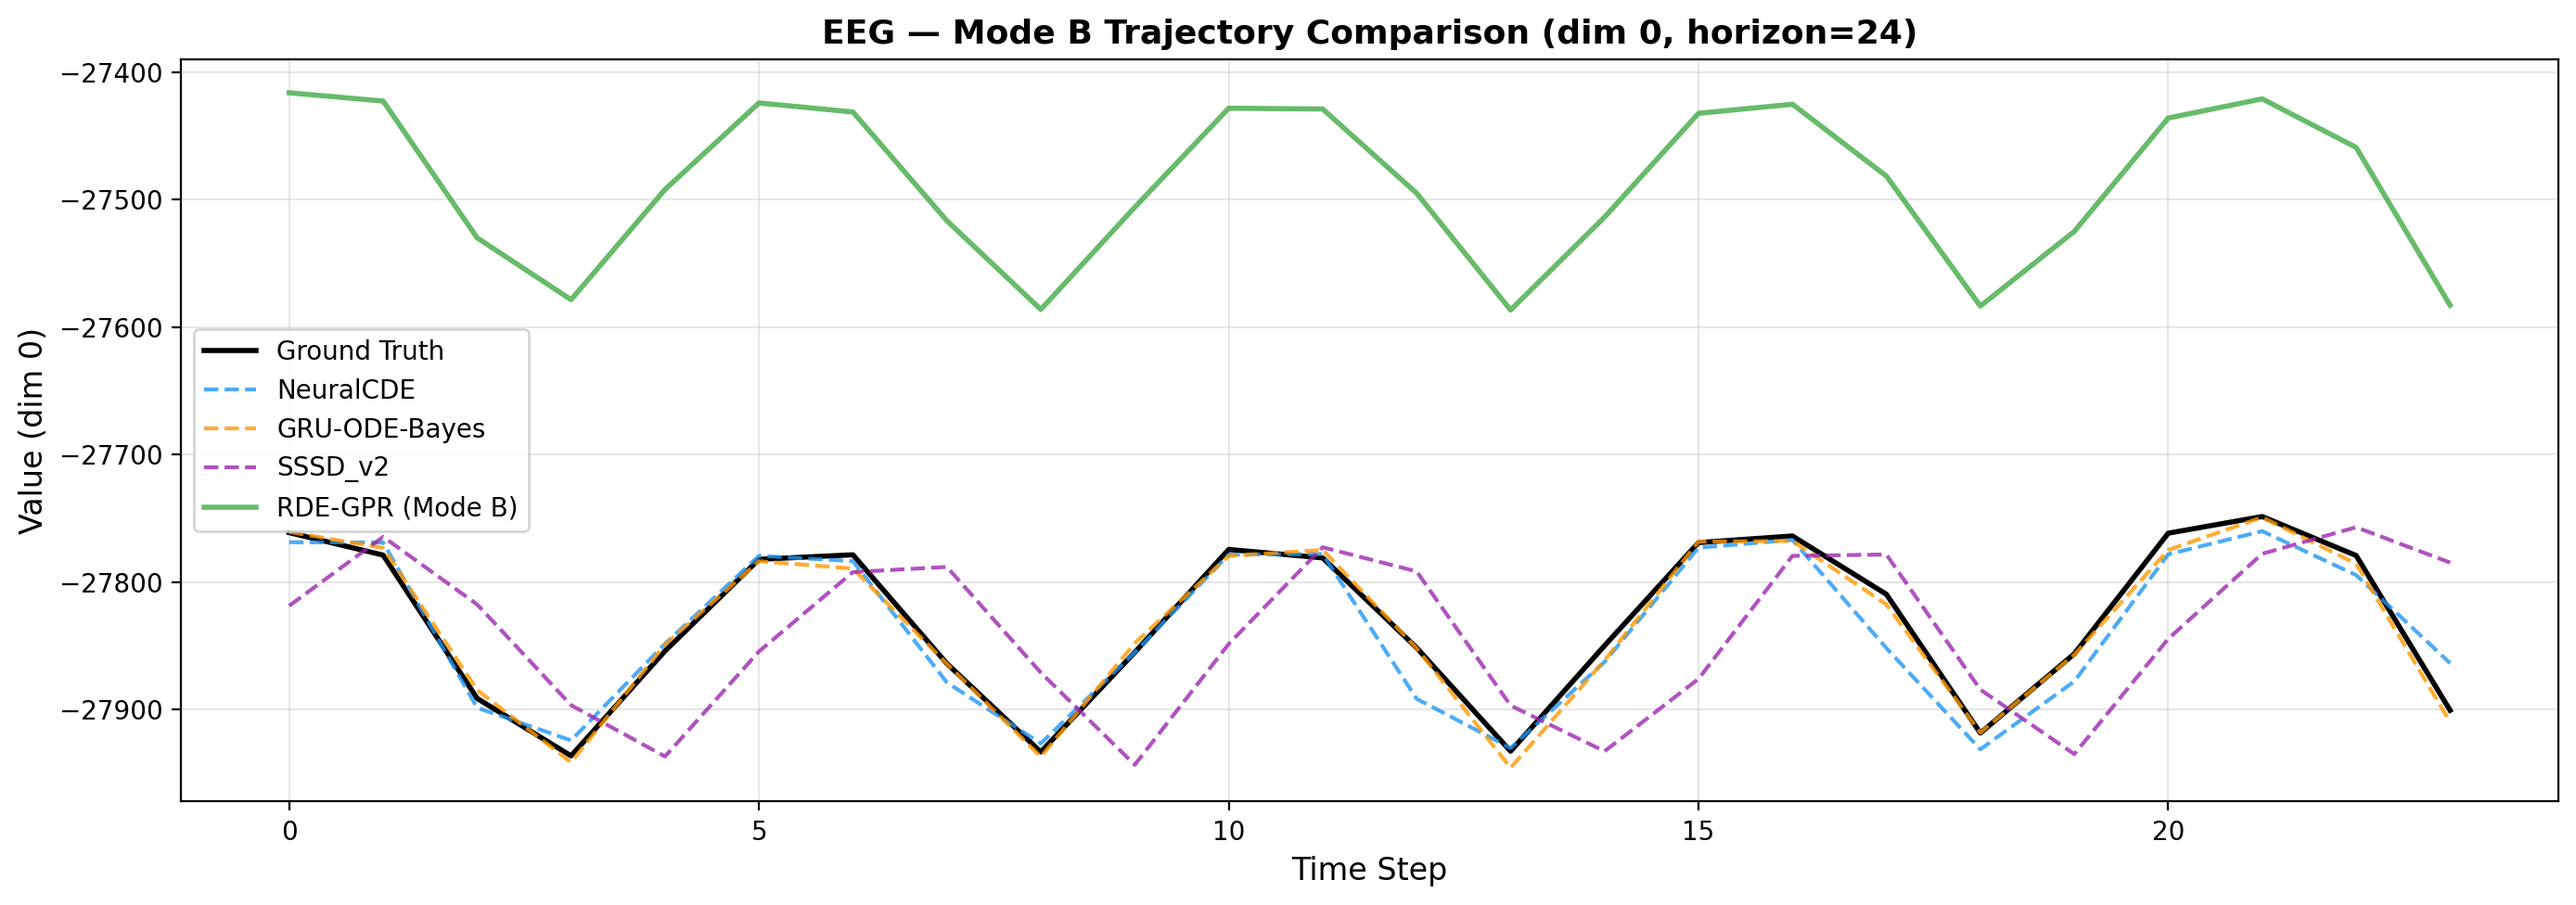
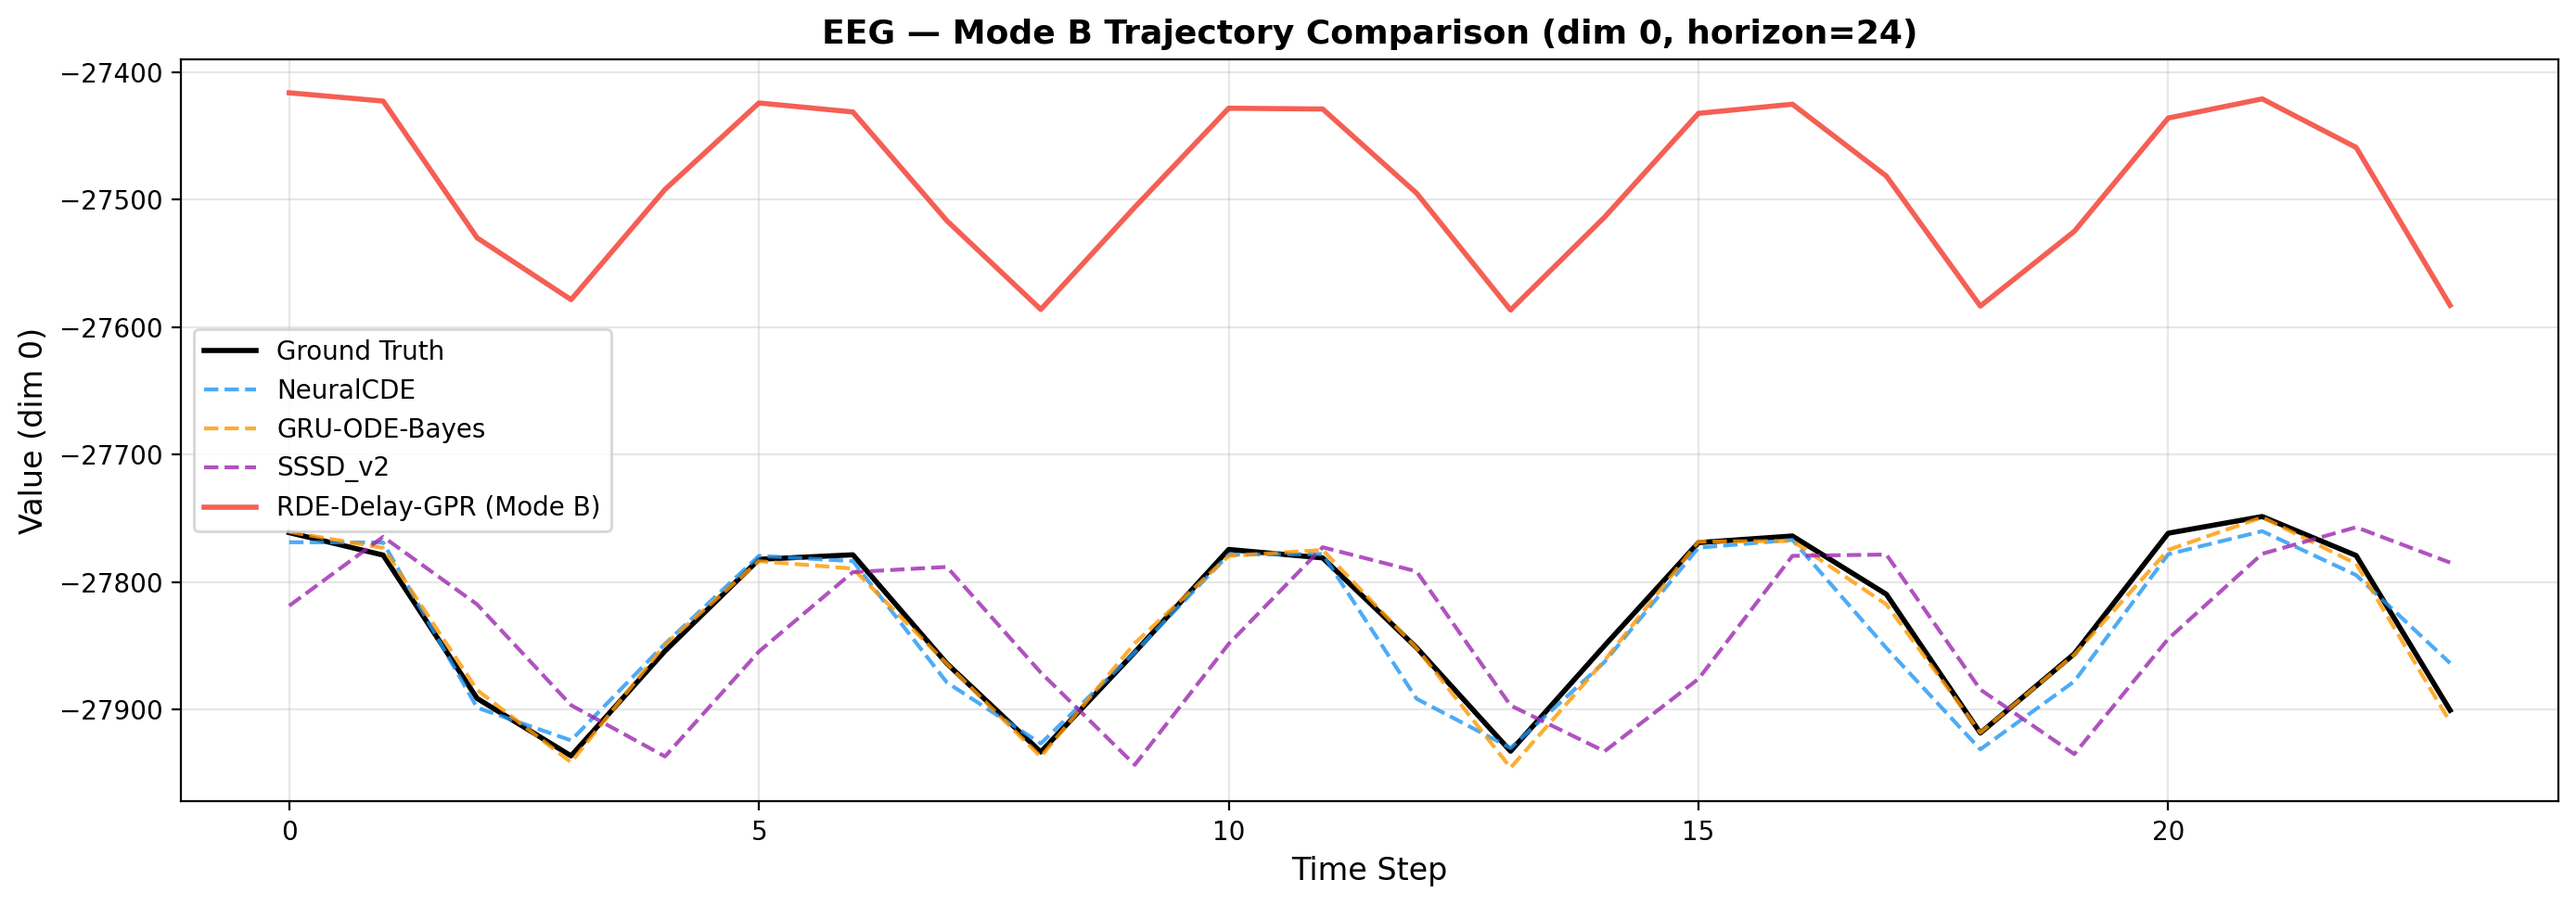
docs: 修正方法命名 — RDE-GPR (空间集成) / RDE-Delay-GPR (延迟嵌入)
之前 comparison_v3 表里把 Lorenz63/96 的 "RDE" 单独列了一栏,
把其他数据集 "RDE-GPR" 单独列, 造成混淆。

修正:
- RDE-GPR       = 空间集成 GPR (同一时刻不同维度), 对应 Lorenz "RDE" + PM25 默认
- RDE-Delay-GPR = 延迟嵌入 GPR (不同时刻延迟), 对应 Lorenz "RDE-Delay" + EEG 加 --use_delay_embedding

当前 Mode B 对齐主对比:
  Lorenz63:  RDE-GPR 0.57±0.14 | RDE-Delay-GPR 1.40±0.41
  Lorenz96:  RDE-GPR 0.28±0.10 | RDE-Delay-GPR 0.26±0.11
  PM2.5:     RDE-GPR (跑着) | RDE-Delay-GPR (未跑, PM25 脚本无此选项)
  EEG:       RDE-GPR (未跑) | RDE-Delay-GPR 12.30

diff --git a/experiments_v2/comparison_v3/build_comparison.py b/experiments_v2/comparison_v3/build_comparison.py
@@ -47,13 +47,12 @@ GT_PATHS = {
 }
 
 METHOD_COLORS = {
-    "NeuralCDE":     "#2196F3",
-    "GRU-ODE-Bayes": "#FF9800",
-    "SSSD_v1":       "#CE93D8",
-    "SSSD_v2":       "#9C27B0",
-    "RDE":           "#4CAF50",
-    "RDE-Delay":     "#F44336",
-    "RDE-GPR":       "#4CAF50",
+    "NeuralCDE":      "#2196F3",
+    "GRU-ODE-Bayes":  "#FF9800",
+    "SSSD_v1":        "#CE93D8",
+    "SSSD_v2":        "#9C27B0",
+    "RDE-GPR":        "#4CAF50",
+    "RDE-Delay-GPR":  "#F44336",
 }
 
 
@@ -102,10 +101,15 @@ def collect_baselines_mode_B():
 
 
 def collect_rde_mode_B():
-    """RDE/RDE-Delay/RDE-GPR Mode B (滚动) 对齐结果"""
+    """
+    RDE-GPR / RDE-Delay-GPR Mode B (滚动) 对齐结果
+    命名规范（与结题报告一致）：
+      - RDE-GPR       = 空间集成 GPR，同一时刻不同维度组合 (Lorenz 里 "RDE", PM25 默认)
+      - RDE-Delay-GPR = 延迟嵌入 GPR (Lorenz 里 "RDE-Delay", EEG 加 --use_delay_embedding)
+    """
     rows = []
 
-    # Lorenz63/96 RDE, RDE-Delay (5 seeds 均值)
+    # Lorenz63/96 同时跑了 RDE-GPR (空间) 和 RDE-Delay-GPR (延迟), 5 seeds 均值
     for ds in ["lorenz63", "lorenz96"]:
         summary_path = f"{EXP_BASE}/{ds}/rde_delay/summary_mean.json"
         sm = load_json(summary_path)
@@ -113,40 +117,40 @@ def collect_rde_mode_B():
             continue
         rows.append({
             "dataset":  DATASET_LABELS[ds],
-            "method":   "RDE",
+            "method":   "RDE-GPR",
             "mode":     "Mode B (rolling+TF)",
             "rmse":     sm["rde_full40"]["rmse_mean"],
             "rmse_std": sm["rde_full40"]["rmse_std"],
             "mae":      np.nan,
             "source":   f"experiments_v2/{ds}/rde_delay/summary_mean.json (5 seeds)",
-            "notes":    "dim 0, horizon 40, 5 seeds 均值",
+            "notes":    "空间集成, dim 0, horizon 40, 5 seeds 均值",
         })
         rows.append({
             "dataset":  DATASET_LABELS[ds],
-            "method":   "RDE-Delay",
+            "method":   "RDE-Delay-GPR",
             "mode":     "Mode B (rolling+TF)",
             "rmse":     sm["rde_delay_full40"]["rmse_mean"],
             "rmse_std": sm["rde_delay_full40"]["rmse_std"],
             "mae":      np.nan,
             "source":   f"experiments_v2/{ds}/rde_delay/summary_mean.json (5 seeds)",
-            "notes":    "dim 0, horizon 40, 5 seeds 均值",
+            "notes":    "延迟嵌入, dim 0, horizon 40, 5 seeds 均值",
         })
 
-    # EEG RDE-GPR Mode B
+    # EEG 用 --use_delay_embedding 跑 → RDE-Delay-GPR
     m = load_json(f"{EXP_BASE}/eeg/rdegpr_modeB/metrics.json")
     o = extract_overall(m)
     if o is not None:
         rows.append({
             "dataset":  "EEG",
-            "method":   "RDE-GPR",
+            "method":   "RDE-Delay-GPR",
             "mode":     "Mode B (rolling+TF)",
             "rmse":     o["rmse"],
             "mae":      o.get("mae", np.nan),
             "source":   "experiments_v2/eeg/rdegpr_modeB/metrics.json",
-            "notes":    "history=976, horizon=24, target=0,1,2, trainlength=300",
+            "notes":    "延迟嵌入, history=976, horizon=24, target=0,1,2, trainlength=300",
         })
 
-    # PM25 RDE-GPR Mode B (若已完成)
+    # PM25 pm25_CSDIimpute_after-RDEgpr.py 不带 delay → RDE-GPR (空间集成)
     m = load_json(f"{EXP_BASE}/pm25/rdegpr_modeB/metrics.json")
     o = extract_overall(m)
     if o is not None:
@@ -157,7 +161,7 @@ def collect_rde_mode_B():
             "rmse":     o["rmse"],
             "mae":      o.get("mae", np.nan),
             "source":   "experiments_v2/pm25/rdegpr_modeB/metrics.json",
-            "notes":    "split_ratio=0.5, horizon=24, 全36站, trainlength=500",
+            "notes":    "空间集成, split_ratio=0.5, horizon=24, 全36站, trainlength=500",
         })
 
     return rows
@@ -205,7 +209,7 @@ def dim0_from_npy(pred_path, gt_path, horizon, is_csv=False):
 
 def plot_rmse_bar(df_modeB):
     """四数据集 RMSE 柱状图 (Mode B)"""
-    methods_order = ["NeuralCDE", "GRU-ODE-Bayes", "SSSD_v2", "RDE", "RDE-Delay", "RDE-GPR"]
+    methods_order = ["NeuralCDE", "GRU-ODE-Bayes", "SSSD_v2", "RDE-GPR", "RDE-Delay-GPR"]
     fig, axes = plt.subplots(1, 4, figsize=(22, 5))
     for ax, ds in zip(axes, DATASETS):
         sub = df_modeB[df_modeB["dataset"] == DATASET_LABELS[ds]]
@@ -240,7 +244,7 @@ def plot_rmse_bar(df_modeB):
 
 
 def plot_mae_bar(df_modeB):
-    methods_order = ["NeuralCDE", "GRU-ODE-Bayes", "SSSD_v2", "RDE", "RDE-Delay", "RDE-GPR"]
+    methods_order = ["NeuralCDE", "GRU-ODE-Bayes", "SSSD_v2", "RDE-GPR", "RDE-Delay-GPR"]
     fig, axes = plt.subplots(1, 4, figsize=(22, 5))
     for ax, ds in zip(axes, DATASETS):
         sub = df_modeB[df_modeB["dataset"] == DATASET_LABELS[ds]]
@@ -312,30 +316,28 @@ def plot_trajectory(dataset):
                 ax.plot(range(horizon), pred[:horizon, 0], '--', color=color,
                         linewidth=1.5, label=name, alpha=0.8)
 
-    # RDE / RDE-Delay (Lorenz only, 5 seeds 取第一个)
+    # RDE-Delay-GPR (Lorenz only, 5 seeds 取 seed42)
     if dataset in ("lorenz63", "lorenz96"):
         runs = sorted(glob.glob(f"{EXP_BASE}/{dataset}/rde_delay/run_*_seed42"))
         if runs:
             run0 = runs[0]
-            for name, color in [("RDE-Delay", "#F44336")]:
-                pred_path = f"{run0}/rde_delay_pred_full40.npy"
-                if os.path.exists(pred_path):
-                    pred = np.load(pred_path)
-                    ax.plot(range(len(pred)), pred, '-', color=color, linewidth=2,
-                            label=f"{name} (seed 42)", alpha=0.85)
+            pred_path = f"{run0}/rde_delay_pred_full40.npy"
+            if os.path.exists(pred_path):
+                pred = np.load(pred_path)
+                ax.plot(range(len(pred)), pred, '-', color="#F44336", linewidth=2,
+                        label="RDE-Delay-GPR (seed 42)", alpha=0.85)
 
-    # EEG RDE-GPR Mode B
+    # EEG RDE-Delay-GPR Mode B
     if dataset == "eeg":
         p = f"{EXP_BASE}/eeg/rdegpr_modeB/future_pred.csv"
         if os.path.exists(p):
-            pred = pd.read_csv(p).values  # 包含 index 列可能，尝试
-            # future_pred.csv 可能首列是 step index
+            pred = pd.read_csv(p).values
             if pred.shape[1] > 3:
                 pred = pred[:, 1:]
             ax.plot(range(min(horizon, pred.shape[0])), pred[:horizon, 0],
-                    '-', color="#4CAF50", linewidth=2, label="RDE-GPR (Mode B)", alpha=0.85)
+                    '-', color="#F44336", linewidth=2, label="RDE-Delay-GPR (Mode B)", alpha=0.85)
 
-    # PM25 RDE-GPR Mode B (if available)
+    # PM25 RDE-GPR Mode B (空间集成版)
     if dataset == "pm25":
         p = f"{EXP_BASE}/pm25/rdegpr_modeB/future_pred.csv"
         if os.path.exists(p):
@@ -345,7 +347,7 @@ def plot_trajectory(dataset):
                     df_p = df_p.set_index("datetime")
                 pred = df_p.values
                 ax.plot(range(min(horizon, pred.shape[0])), pred[:horizon, 0],
-                        '-', color="#4CAF50", linewidth=2, label="RDE-GPR (Mode B)", alpha=0.85)
+                        '-', color="#4CAF50", linewidth=2, label="RDE-GPR (空间集成)", alpha=0.85)
             except Exception as e:
                 print(f"[warn] PM25 RDE-GPR pred read failed: {e}")
 
@@ -394,14 +396,20 @@ def write_summary_md(df_all, df_modeB):
     lines.append("")
     lines.append(f"生成时间: {pd.Timestamp.now():%Y-%m-%d %H:%M}")
     lines.append("")
+    lines.append("## 方法命名")
+    lines.append("")
+    lines.append("- **RDE-GPR**: 随机嵌入 + 高斯过程回归（空间集成，同一时刻不同维度组合）")
+    lines.append("- **RDE-Delay-GPR**: 随机延迟嵌入 + 高斯过程回归（时间延迟特征）")
+    lines.append("- Lorenz63/96 的 eval_aligned.py 同时跑了上述两种方法；EEG 用延迟版；PM25 用空间版")
+    lines.append("")
     lines.append("## 对齐基线 Mode B 的主对比表")
     lines.append("")
-    lines.append("| 数据集 | NeuralCDE | GRU-ODE-Bayes | SSSD_v2 | RDE | RDE-Delay | RDE-GPR |")
-    lines.append("|--------|-----------|---------------|---------|-----|-----------|---------|")
+    lines.append("| 数据集 | NeuralCDE | GRU-ODE-Bayes | SSSD_v2 | RDE-GPR | RDE-Delay-GPR |")
+    lines.append("|--------|-----------|---------------|---------|---------|---------------|")
     for ds in ["Lorenz63", "Lorenz96", "PM2.5", "EEG"]:
         row = [ds]
         sub = df_modeB[df_modeB["dataset"] == ds]
-        for m in ["NeuralCDE", "GRU-ODE-Bayes", "SSSD_v2", "RDE", "RDE-Delay", "RDE-GPR"]:
+        for m in ["NeuralCDE", "GRU-ODE-Bayes", "SSSD_v2", "RDE-GPR", "RDE-Delay-GPR"]:
             r = sub[sub["method"] == m]
             if len(r) == 0:
                 row.append("—")

diff --git a/session_notes/2026-04-17_experiment_inventory.md b/session_notes/2026-04-17_experiment_inventory.md
@@ -6,6 +6,15 @@
 
 ---
 
+## 0.0 方法命名规范（与结题报告一致）
+
+| 名称 | 特征构造 | 对应脚本标签 |
+|------|----------|--------------|
+| **RDE-GPR** | **空间集成**：同一时刻 L 个不同维度 `[x_{d1}(t), ..., x_{dL}(t)]` | Lorenz 的 "RDE"；PM25 默认 |
+| **RDE-Delay-GPR** | **延迟嵌入**：不同维度×不同时间延迟 `[x_{d1}(t-τ1), ..., x_{dM}(t-τM)]` | Lorenz 的 "RDE-Delay"；EEG 加 `--use_delay_embedding` |
+
+Lorenz63/96 的 `eval_aligned.py` **同时跑**了 RDE-GPR 和 RDE-Delay-GPR 两个 variant。
+
 ## 0. 术语与核心区分
 
 | 模式 | 定义 | 代表 |
@@ -63,14 +72,14 @@
 | Lorenz63 | GRU-ODE-Bayes | Mode B | 5.97 | 4.03 |
 | Lorenz63 | SSSD v1 (mask 错误) | Mode B | 18.80 | 15.20 |
 | Lorenz63 | **SSSD v2** | Mode B | **15.21** | 12.02 |
-| Lorenz63 | **RDE (5 seeds)** | Mode B | **0.57 ± 0.14** | — |
-| Lorenz63 | **RDE-Delay (5 seeds)** | Mode B | **1.40 ± 0.41** | — |
+| Lorenz63 | **RDE-GPR (5 seeds, 空间集成)** | Mode B | **0.57 ± 0.14** | — |
+| Lorenz63 | **RDE-Delay-GPR (5 seeds, 延迟嵌入)** | Mode B | **1.40 ± 0.41** | — |
 | Lorenz96 | NeuralCDE | Mode B | 9.94 | 7.16 |
 | Lorenz96 | GRU-ODE-Bayes | Mode B | 4.10 | 3.26 |
 | Lorenz96 | SSSD v1 | Mode B | 5.59 | 4.43 |
 | Lorenz96 | **SSSD v2** | Mode B | **6.66** | 5.18 |
-| Lorenz96 | **RDE (5 seeds)** | Mode B | **0.28 ± 0.10** | — |
-| Lorenz96 | **RDE-Delay (5 seeds)** | Mode B | **0.26 ± 0.11** | — |
+| Lorenz96 | **RDE-GPR (5 seeds, 空间集成)** | Mode B | **0.28 ± 0.10** | — |
+| Lorenz96 | **RDE-Delay-GPR (5 seeds, 延迟嵌入)** | Mode B | **0.26 ± 0.11** | — |
 | PM25 | NeuralCDE | Mode B | 15.06 | 10.44 |
 | PM25 | GRU-ODE-Bayes | Mode B | 20.99 | 15.56 |
 | PM25 | SSSD v1 | Mode B | 105.21 | 95.32 |

diff --git a/experiments_v2/comparison_v3/summary.md b/experiments_v2/comparison_v3/summary.md
@@ -1,15 +1,21 @@
 # 实验对比总结（Mode B 滚动 teacher-forcing 为主赛道）
 
-生成时间: 2026-04-17 16:14
+生成时间: 2026-04-17 17:02
+
+## 方法命名
+
+- **RDE-GPR**: 随机嵌入 + 高斯过程回归（空间集成，同一时刻不同维度组合）
+- **RDE-Delay-GPR**: 随机延迟嵌入 + 高斯过程回归（时间延迟特征）
+- Lorenz63/96 的 eval_aligned.py 同时跑了上述两种方法；EEG 用延迟版；PM25 用空间版
 
 ## 对齐基线 Mode B 的主对比表
 
-| 数据集 | NeuralCDE | GRU-ODE-Bayes | SSSD_v2 | RDE | RDE-Delay | RDE-GPR |
-|--------|-----------|---------------|---------|-----|-----------|---------|
-| Lorenz63 | 6.05 | 5.97 | 15.21 | 0.57±0.14 | 1.40±0.41 | — |
-| Lorenz96 | 9.94 | 4.10 | 6.66 | 0.28±0.10 | 0.26±0.11 | — |
-| PM2.5 | 15.06 | 20.99 | — | — | — | — |
-| EEG | 17.04 | 6.24 | 64.06 | — | — | 12.30 |
+| 数据集 | NeuralCDE | GRU-ODE-Bayes | SSSD_v2 | RDE-GPR | RDE-Delay-GPR |
+|--------|-----------|---------------|---------|---------|---------------|
+| Lorenz63 | 6.05 | 5.97 | 15.21 | 0.57±0.14 | 1.40±0.41 |
+| Lorenz96 | 9.94 | 4.10 | 6.66 | 0.28±0.10 | 0.26±0.11 |
+| PM2.5 | 15.06 | 20.99 | — | — | — |
+| EEG | 17.04 | 6.24 | 64.06 | — | 12.30 |
 
 （数字是 RMSE；Lorenz63/96 是 dim 0 / 5 seeds 均值；PM2.5/EEG 是全 target 维度 overall）
 
